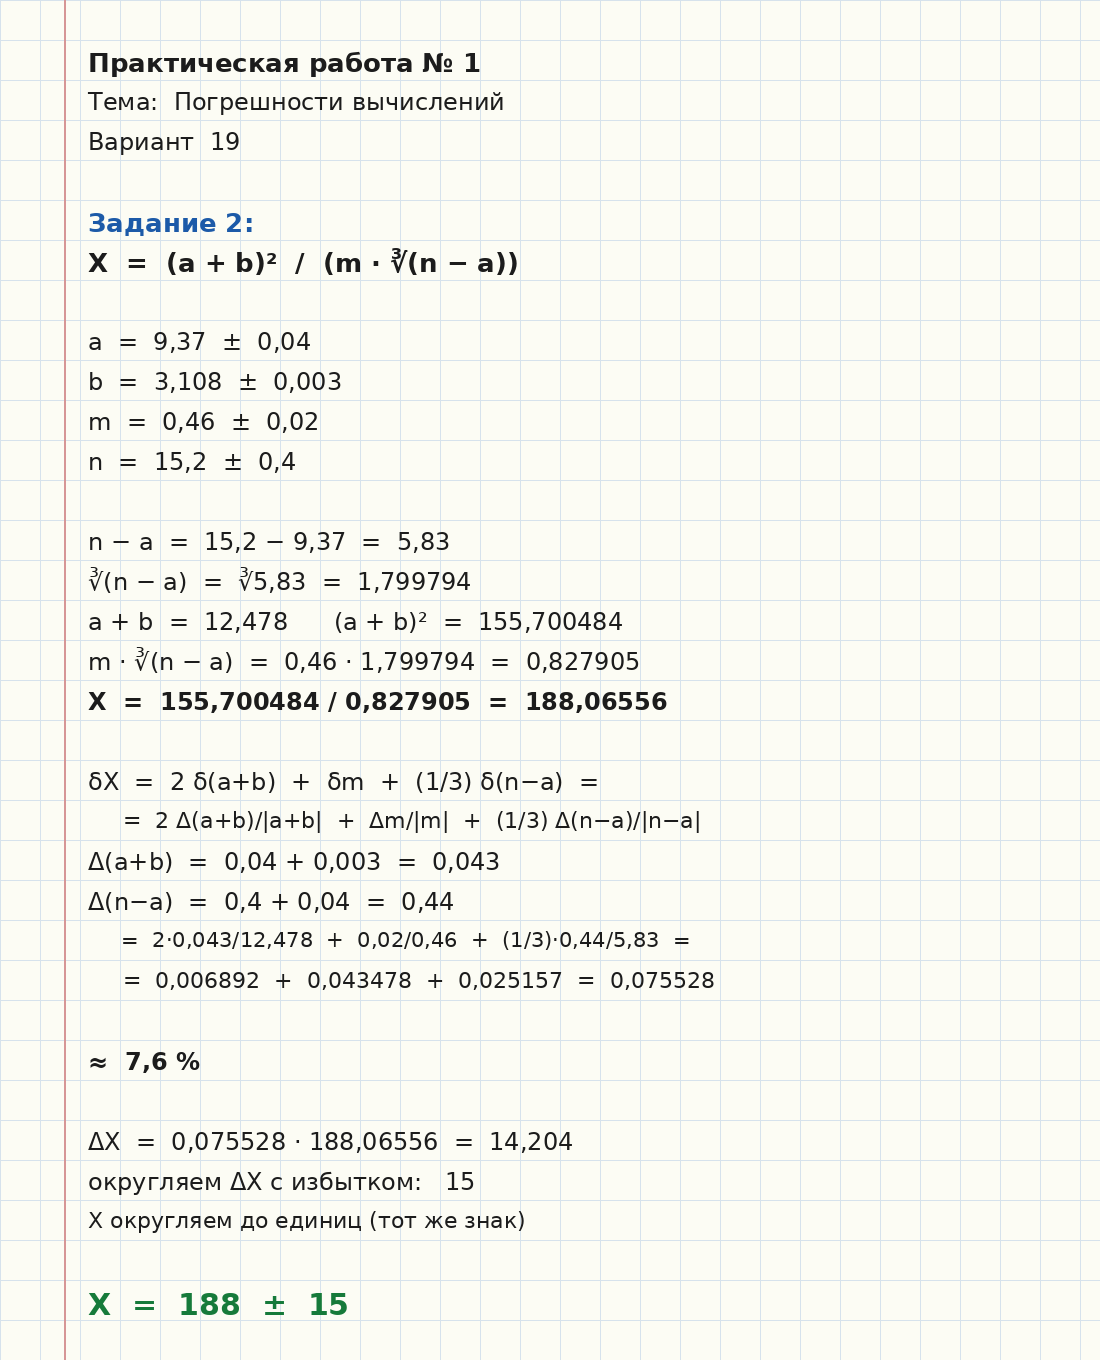
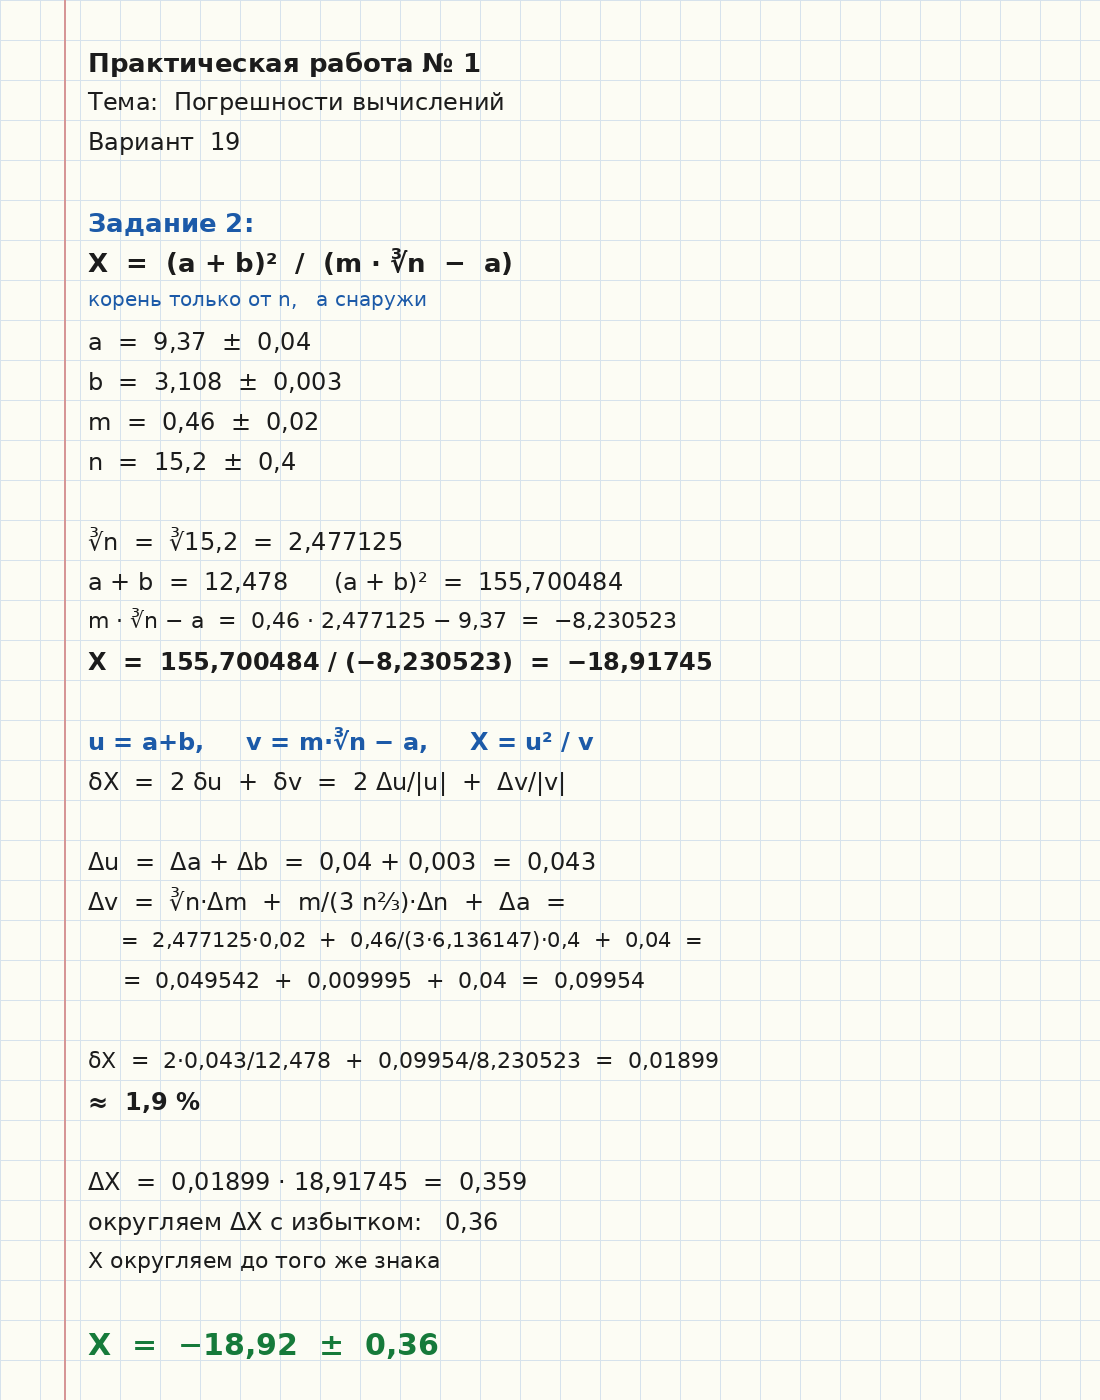
Fix practical 1 from the official blank after Zhilkina review.
Task 1 uses Δb=0.06. Task 2 keeps cube root on n only: X=(a+b)²/(m·∛n−a).

Changed region(s): [[0.0618, 0.1544, 0.68, 0.8029], [0.0618, 0.8338, 0.5255, 0.9882], [0.0618, 0.0309, 0.4636, 0.1235]]

diff --git a/ucheba/praktiki_v19/render_pr1_tetrad.py b/ucheba/praktiki_v19/render_pr1_tetrad.py
@@ -49,7 +49,7 @@ def sheet_z1():
     write(d, 5, "Задание 1:", 26, BLUE, True)
     write(d, 6, "X  =  √(c · d / b)", 28, bold=True)
 
-    write(d, 8, "b  =  1,84  ±  0,066", 24)
+    write(d, 8, "b  =  1,84  ±  0,06", 24)
     write(d, 9, "c  =  0,8345  ±  0,0004", 24)
     write(d, 10, "d  =  13,8  ±  0,3", 24)
 
@@ -57,16 +57,16 @@ def sheet_z1():
 
     write(d, 14, "δX  =  ½ δc  +  ½ δd  +  ½ δb  =", 24)
     write(d, 15, "     =  Δc/(2|c|)  +  Δd/(2|d|)  +  Δb/(2|b|)  =", 24)
-    write(d, 16, "     =  0,0004/(2·0,8345)  +  0,3/(2·13,8)  +  0,066/(2·1,84)  =", 21)
-    write(d, 17, "     =  0,000240  +  0,010870  +  0,017935  =  0,029044", 22)
+    write(d, 16, "     =  0,0004/(2·0,8345)  +  0,3/(2·13,8)  +  0,06/(2·1,84)  =", 21)
+    write(d, 17, "     =  0,000240  +  0,010870  +  0,016304  =  0,027414", 22)
 
-    write(d, 19, "≈  2,9 %", 24, bold=True)
+    write(d, 19, "≈  2,7 %", 24, bold=True)
 
-    write(d, 21, "ΔX  =  0,029044 · 2,501749  =  0,07266", 24)
-    write(d, 22, "округляем ΔX с избытком:   0,08", 24)
+    write(d, 21, "ΔX  =  0,027414 · 2,501749  =  0,06858", 24)
+    write(d, 22, "округляем ΔX с избытком:   0,07", 24)
     write(d, 23, "X округляем до того же знака", 22)
 
-    write(d, 25, "X  =  2,50  ±  0,08", 30, GREEN, True)
+    write(d, 25, "X  =  2,50  ±  0,07", 30, GREEN, True)
     return im.crop((0, 0, W, 27 * STEP))
 
 
@@ -77,34 +77,36 @@ def sheet_z2():
     write(d, 3, "Вариант  19", 24)
 
     write(d, 5, "Задание 2:", 26, BLUE, True)
-    write(d, 6, "X  =  (a + b)²  /  (m · ∛(n − a))", 26, bold=True)
+    write(d, 6, "X  =  (a + b)²  /  (m · ∛n  −  a)", 26, bold=True)
+    write(d, 7, "корень только от n,   a снаружи", 20, BLUE)
 
     write(d, 8, "a  =  9,37  ±  0,04", 24)
     write(d, 9, "b  =  3,108  ±  0,003", 24)
     write(d, 10, "m  =  0,46  ±  0,02", 24)
     write(d, 11, "n  =  15,2  ±  0,4", 24)
 
-    write(d, 13, "n − a  =  15,2 − 9,37  =  5,83", 24)
-    write(d, 14, "∛(n − a)  =  ∛5,83  =  1,799794", 24)
-    write(d, 15, "a + b  =  12,478      (a + b)²  =  155,700484", 24)
-    write(d, 16, "m · ∛(n − a)  =  0,46 · 1,799794  =  0,827905", 24)
-    write(d, 17, "X  =  155,700484 / 0,827905  =  188,06556", 24, bold=True)
+    write(d, 13, "∛n  =  ∛15,2  =  2,477125", 24)
+    write(d, 14, "a + b  =  12,478      (a + b)²  =  155,700484", 24)
+    write(d, 15, "m · ∛n − a  =  0,46 · 2,477125 − 9,37  =  −8,230523", 22)
+    write(d, 16, "X  =  155,700484 / (−8,230523)  =  −18,91745", 24, bold=True)
 
-    write(d, 19, "δX  =  2 δ(a+b)  +  δm  +  (1/3) δ(n−a)  =", 24)
-    write(d, 20, "     =  2 Δ(a+b)/|a+b|  +  Δm/|m|  +  (1/3) Δ(n−a)/|n−a|", 22)
-    write(d, 21, "Δ(a+b)  =  0,04 + 0,003  =  0,043", 24)
-    write(d, 22, "Δ(n−a)  =  0,4 + 0,04  =  0,44", 24)
-    write(d, 23, "     =  2·0,043/12,478  +  0,02/0,46  +  (1/3)·0,44/5,83  =", 21)
-    write(d, 24, "     =  0,006892  +  0,043478  +  0,025157  =  0,075528", 22)
+    write(d, 18, "u = a+b,     v = m·∛n − a,     X = u² / v", 24, BLUE, True)
+    write(d, 19, "δX  =  2 δu  +  δv  =  2 Δu/|u|  +  Δv/|v|", 24)
 
-    write(d, 26, "≈  7,6 %", 24, bold=True)
+    write(d, 21, "Δu  =  Δa + Δb  =  0,04 + 0,003  =  0,043", 24)
+    write(d, 22, "Δv  =  ∛n·Δm  +  m/(3 n⅔)·Δn  +  Δa  =", 24)
+    write(d, 23, "     =  2,477125·0,02  +  0,46/(3·6,136147)·0,4  +  0,04  =", 21)
+    write(d, 24, "     =  0,049542  +  0,009995  +  0,04  =  0,09954", 22)
 
-    write(d, 28, "ΔX  =  0,075528 · 188,06556  =  14,204", 24)
-    write(d, 29, "округляем ΔX с избытком:   15", 24)
-    write(d, 30, "X округляем до единиц (тот же знак)", 22)
+    write(d, 26, "δX  =  2·0,043/12,478  +  0,09954/8,230523  =  0,01899", 22)
+    write(d, 27, "≈  1,9 %", 24, bold=True)
 
-    write(d, 32, "X  =  188  ±  15", 30, GREEN, True)
-    return im.crop((0, 0, W, 34 * STEP))
+    write(d, 29, "ΔX  =  0,01899 · 18,91745  =  0,359", 24)
+    write(d, 30, "округляем ΔX с избытком:   0,36", 24)
+    write(d, 31, "X округляем до того же знака", 22)
+
+    write(d, 33, "X  =  −18,92  ±  0,36", 30, GREEN, True)
+    return im.crop((0, 0, W, 35 * STEP))
 
 
 def main():

diff --git a/ucheba/praktiki_v19/render_paint.py b/ucheba/praktiki_v19/render_paint.py
@@ -109,7 +109,7 @@ def sheet_pr1():
             "Практика 1  ·  вариант 19  ·  погрешности",
             [
                 "Задание 1:  X = √(c·d / b)",
-                "Задание 2:  X = (a+b)² / (m·∛(n − a))",
+                "Задание 2:  X = (a+b)² / (m·∛n − a)",
             ],
         )
     ]
@@ -118,30 +118,30 @@ def sheet_pr1():
     d = ImageDraw.Draw(im)
     d.rectangle([0, 0, W, 54], fill=YELLOW)
     txt(d, (W / 2, 27), "1.   X = √(c·d / b)", 28, bold=True, anchor="mm")
-    txt(d, (40, 72), "b = 1,84 ± 0,066     c = 0,8345 ± 0,0004     d = 13,8 ± 0,3", 24)
+    txt(d, (40, 72), "b = 1,84 ± 0,06     c = 0,8345 ± 0,0004     d = 13,8 ± 0,3", 24)
     txt(d, (40, 118), "X = √(0,8345 · 13,8 / 1,84) = √6,25875 = 2,501749", 24, bold=True)
     txt(d, (40, 168), "ln X = ½ ln c + ½ ln d − ½ ln b", 24, BLUE, True)
     txt(d, (40, 214), "δX = ½ (Δc/c + Δd/d + Δb/b)", 24)
-    txt(d, (40, 260), "  = ½ (0,0004/0,8345 + 0,3/13,8 + 0,066/1,84) = 0,029044", 24)
-    txt(d, (40, 306), "ΔX = 0,029044 · 2,501749 = 0,07266", 24)
+    txt(d, (40, 260), "  = ½ (0,0004/0,8345 + 0,3/13,8 + 0,06/1,84) = 0,027414", 24)
+    txt(d, (40, 306), "ΔX = 0,027414 · 2,501749 = 0,06858", 24)
     d.rounded_rectangle([40, 370, 1160, 580], radius=16, fill=PAPER_G, outline=GREEN, width=4)
     txt(d, (60, 400), "ответ", 24, GREEN, True)
-    txt(d, (60, 460), "X = 2,50  ±  0,08", 40, GREEN, True)
+    txt(d, (60, 460), "X = 2,50  ±  0,07", 40, GREEN, True)
     parts.append(im)
 
     im = new_im(600)
     d = ImageDraw.Draw(im)
     d.rectangle([0, 0, W, 54], fill=(180, 220, 255))
-    txt(d, (W / 2, 27), "2.   X = (a+b)² / (m · ∛(n − a))", 26, bold=True, anchor="mm")
+    txt(d, (W / 2, 27), "2.   X = (a+b)² / (m · ∛n − a)", 26, bold=True, anchor="mm")
     txt(d, (40, 72), "a=9,37±0,04   b=3,108±0,003   m=0,46±0,02   n=15,2±0,4", 22)
-    txt(d, (40, 116), "n−a=5,83     ∛5,83=1,799794     знаменатель=0,46·1,799794=0,827905", 22)
-    txt(d, (40, 160), "(a+b)² = 12,478² = 155,700484     X = 155,700484 / 0,827905 = 188,06556", 22, bold=True)
-    txt(d, (40, 210), "δX = 2δ(a+b) + δm + (1/3)δ(n−a)", 24, BLUE, True)
-    txt(d, (40, 256), "δX = 2·0,043/12,478 + 0,02/0,46 + (1/3)·0,44/5,83 = 0,075528", 22)
-    txt(d, (40, 302), "ΔX = 0,075528 · 188,06556 = 14,204", 24)
+    txt(d, (40, 116), "∛15,2 = 2,477125     знаменатель = 0,46·2,477125 − 9,37 = −8,230523", 22)
+    txt(d, (40, 160), "(a+b)² = 12,478² = 155,700484     X = 155,700484 / (−8,230523) = −18,91745", 22, bold=True)
+    txt(d, (40, 210), "u=a+b,  v=m·∛n−a,   Δu=0,043", 24, BLUE, True)
+    txt(d, (40, 256), "Δv = ∛n·Δm + m/(3 n⅔)·Δn + Δa = 0,09954", 24)
+    txt(d, (40, 302), "δX = 2·Δu/|u| + Δv/|v| = 0,01899     ΔX = 0,359", 24)
     d.rounded_rectangle([40, 370, 1160, 560], radius=16, fill=PAPER_G, outline=GREEN, width=4)
-    txt(d, (60, 400), "ответ   (n и a оба под корнем)", 24, GREEN, True)
-    txt(d, (60, 470), "X = 188  ±  15", 40, GREEN, True)
+    txt(d, (60, 400), "ответ   (корень только от n, a снаружи)", 24, GREEN, True)
+    txt(d, (60, 470), "X = −18,92  ±  0,36", 40, GREEN, True)
     parts.append(im)
     return stack(parts)
 

diff --git a/ucheba/praktiki_v19/VARIANT_19.md b/ucheba/praktiki_v19/VARIANT_19.md
@@ -9,10 +9,12 @@
 
 \[
 X = \sqrt{\frac{c\cdot d}{b}},\qquad
-b=1{,}84\pm 0{,}066,\quad
+b=1{,}84\pm 0{,}06,\quad
 c=0{,}8345\pm 0{,}0004,\quad
 d=13{,}8\pm 0{,}3.
 \]
+
+В бланке \(\Delta b=0{,}06\), не \(0{,}066\).
 
 **Значение**
 
@@ -28,56 +30,62 @@ X=\sqrt{\frac{0{,}8345\cdot 13{,}8}{1{,}84}}=\sqrt{6{,}25875}=2{,}501749.
 
 \[
 \delta X=\frac12\left(\frac{\Delta c}{c}+\frac{\Delta d}{d}+\frac{\Delta b}{b}\right)
-=\frac12\Bigl(\frac{0{,}0004}{0{,}8345}+\frac{0{,}3}{13{,}8}+\frac{0{,}066}{1{,}84}\Bigr)
-=0{,}029044,
+=\frac12\Bigl(\frac{0{,}0004}{0{,}8345}+\frac{0{,}3}{13{,}8}+\frac{0{,}06}{1{,}84}\Bigr)
+=0{,}027414,
 \]
 
 \[
-\Delta X=\delta X\cdot X=0{,}029044\cdot 2{,}501749=0{,}07266.
+\Delta X=\delta X\cdot X=0{,}027414\cdot 2{,}501749=0{,}06858.
 \]
 
-**Ответ:** \(X=2{,}50\pm 0{,}08\).
+**Ответ:** \(X=2{,}50\pm 0{,}07\).
 
 ---
 
 ## Задание 2
 
 \[
-X=\frac{(a+b)^2}{m\cdot\sqrt[3]{n-a}},\qquad
+X=\frac{(a+b)^2}{m\cdot\sqrt[3]{n}-a},\qquad
 a=9{,}37\pm 0{,}04,\quad
 b=3{,}108\pm 0{,}003,\quad
 m=0{,}46\pm 0{,}02,\quad
 n=15{,}2\pm 0{,}4.
 \]
 
-Корень от \((n-a)\), оба под кубическим корнем.
+В бланке корень **только от \(n\)**, \(a\) снаружи: \(m\cdot\sqrt[3]{n}-a\).
 
 \[
-n-a=5{,}83,\qquad
-\sqrt[3]{5{,}83}=1{,}799794,\qquad
-m\cdot\sqrt[3]{n-a}=0{,}46\cdot 1{,}799794=0{,}827905,
+\sqrt[3]{15{,}2}=2{,}477125,\qquad
+m\cdot\sqrt[3]{n}-a=0{,}46\cdot 2{,}477125-9{,}37=-8{,}230523,
 \]
 
 \[
 (a+b)^2=12{,}478^2=155{,}700484,\qquad
-X=\frac{155{,}700484}{0{,}827905}=188{,}06556.
+X=\frac{155{,}700484}{-8{,}230523}=-18{,}91745.
+\]
+
+Пусть \(u=a+b\), \(v=m\cdot n^{1/3}-a\). Тогда \(X=u^2/v\).
+
+\[
+\Delta u=\Delta a+\Delta b=0{,}043,
 \]
 
 \[
-\ln|X|=2\ln|a+b|-\ln|m|-\tfrac13\ln|n-a|,
+\Delta v=n^{1/3}\Delta m+\frac{m}{3n^{2/3}}\Delta n+\Delta a
+=2{,}477125\cdot 0{,}02+\frac{0{,}46}{3\cdot 15{,}2^{2/3}}\cdot 0{,}4+0{,}04
+=0{,}09954,
 \]
 
 \[
-\delta X=2\cdot\frac{\Delta a+\Delta b}{|a+b|}+\frac{\Delta m}{|m|}+\frac13\cdot\frac{\Delta n+\Delta a}{|n-a|}
-=2\cdot\frac{0{,}043}{12{,}478}+\frac{0{,}02}{0{,}46}+\frac13\cdot\frac{0{,}44}{5{,}83}
-=0{,}075528,
+\delta X=2\cdot\frac{\Delta u}{|u|}+\frac{\Delta v}{|v|}
+=2\cdot\frac{0{,}043}{12{,}478}+\frac{0{,}09954}{8{,}230523}=0{,}01899,
 \]
 
 \[
-\Delta X=\delta X\cdot X=0{,}075528\cdot 188{,}06556=14{,}204.
+\Delta X=\delta X\cdot|X|=0{,}359.
 \]
 
-**Ответ:** \(X=188\pm 15\).
+**Ответ:** \(X=-18{,}92\pm 0{,}36\).
 
 ---
 
@@ -271,8 +279,8 @@ I=\frac{0{,}05}{3}\cdot 24{,}476159=0{,}407936.
 
 | Работа | Задание | Ответ |
 |--------|---------|--------|
-| 1 | 1 | \(X=2{,}50\pm 0{,}08\) |
-| 1 | 2 | \(X=188\pm 15\) |
+| 1 | 1 | \(X=2{,}50\pm 0{,}07\) |
+| 1 | 2 | \(X=-18{,}92\pm 0{,}36\) |
 | 2 | 1 | \(\xi_1=-1{,}046\); \(\xi_{2,3}=0{,}773\pm 1{,}330 i\) |
 | 2 | 2 | \(\xi=-0{,}8828\) |
 | 5 | 1 | \(I\approx 0{,}23756\) |
